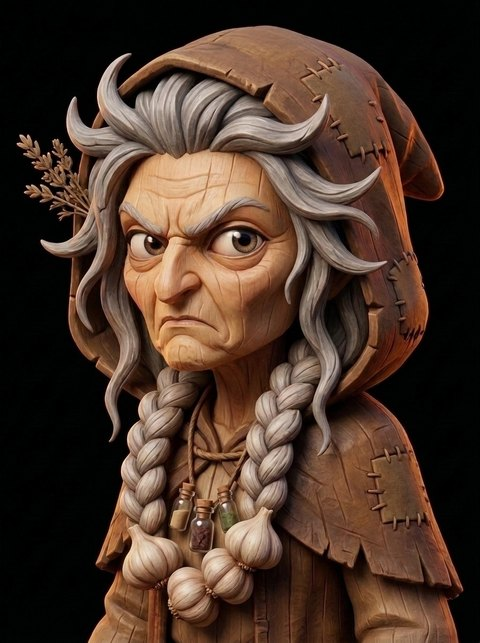
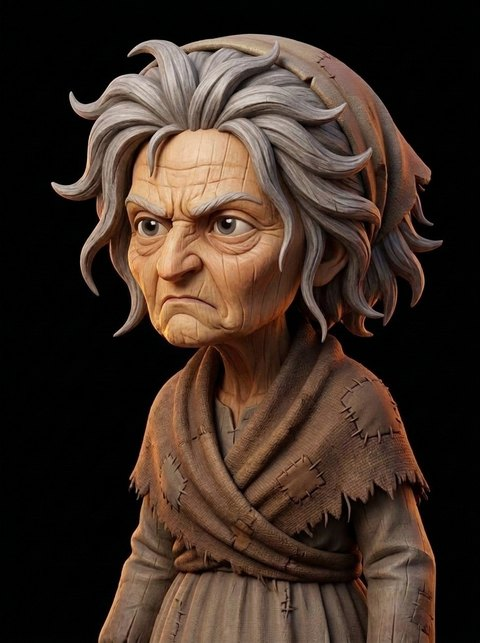
Keep doorways clear, the graveyard off the banks; art fixes
The ground in front of each home's door stays level with its floor for
5 m and then rises only gently; where a road passes higher in front,
the home's level patch is raised to meet it instead of cutting the
road. The graveyard keeps 15 m of bank between itself and the river.

The doorstep dialog is narrower so the two portraits face each other,
with its text capped on large windows. The old woman villager is
repainted without garlic in her three expressions, and the invitation
icon now shows a cosy cottage doorway over grass.

diff --git a/render3d.js b/render3d.js
@@ -490,7 +490,7 @@ function buildWorld() {
   };
   const pads = [...homes.map(({ x, z }) => ({ x, z: z + 1, r: 6.5, b: 6 })), { x: churchAt.x, z: churchAt.z, r: 7, b: 6 }, { x: yard.x, z: yard.z, r: Math.max(yard.w, yard.d) / 2 + 2, b: 9 }];
   pads.forEach((p) => { p.h = base(p.x, p.z); });
-  function heightAt(x, z) {
+  function rawHeight(x, z) {
     const bank = riverDist(x, z);
     if (bank < RH + 0.6) return -0.45 * (1 - sstep(RH - 1.0, RH + 0.6, bank)) + 0.16 * (vnoise(x * 0.8, z * 0.8) - 0.5) * (1 - sstep(RH + 0.2, RH + 0.6, bank));
     let h = base(x, z);
@@ -499,6 +499,35 @@ function buildWorld() {
     if (rw > 0) h += (roadTop(x, z) + crown(x, z) - 0.08 * edge(x, z) * sstep(RH + 0.6, RH + 3, bank) - h) * rw;
     return h;
   }
+
+  // In front of each door the ground keeps level with the home's floor for 5 m, then may rise only gently, so no hill,
+  // embankment, graveyard rise or neighbour's patch climbs against the doorway. The trim fades out at the strip's
+  // sides and far end, and near any other home so it never undercuts one.
+  // Roads are never cut: where one runs in front of a door higher than the home's floor, the home's level patch is
+  // raised to meet it, its edge eased out further.
+  pads.slice(0, homes.length).forEach((p) => {
+    let top = -Infinity;
+    for (let d = 2.5; d <= 11; d += 0.75) for (const dx of [-2.6, 0, 2.6]) {
+      const x = p.x + dx, z = p.z + d;
+      if (roadDist(x, z) < RDH + 1.5) top = Math.max(top, roadTop(x, z) + crown(x, z));
+    }
+    if (top > p.h) { p.b += (top - p.h) * 3; p.h = top + 0.02; }
+  });
+  const doors = homes.map(({ x, z }) => ({ x, z: z + 1 }));
+  doors.forEach((d) => { d.h = rawHeight(d.x, d.z); });
+  function doorCap(x, z, h) {
+    for (const d of doors) {
+      const dz = z - d.z, dx = Math.abs(x - d.x);
+      if (dz < 1.5 || dz > 11 || dx > 4.6) continue;
+      const allow = d.h + 0.3 * Math.max(0, dz - 5);
+      if (h <= allow) continue;
+      let w = (1 - sstep(2.8, 4.6, dx)) * (1 - sstep(8.5, 11, dz)) * sstep(1.5, 2.5, dz) * sstep(RDH + 0.5, RDH + 4, roadDist(x, z));
+      for (const o of doors) if (o !== d) w *= sstep(5.5, 8, Math.hypot(x - o.x, z - o.z));
+      h += (allow - h) * w;
+    }
+    return h;
+  }
+  const heightAt = (x, z) => doorCap(x, z, rawHeight(x, z));
 
   // ---- ground: each bank's strip, built in the river's frame with vertices packed closer near the water ----
   const TILE = 2.6;
@@ -799,7 +828,7 @@ diffuseColor.rgb = mix(diffuseColor.rgb, vec3(dot(diffuseColor.rgb, vec3(0.3, 0.
     }
     return p;
   }
-  W = { map: mapVersion, root, houseViews, groundY, onDeck, churchUnit, cryptUnit, stoneObjs, churchUni, crossHalo, crossLamp, cryptModel, grille, cryptLamp, cryptKind: '', churchDecay: 0 };
+  W = { map: mapVersion, root, houseViews, groundY, heightAt, base, onDeck, churchUnit, cryptUnit, stoneObjs, churchUni, crossHalo, crossLamp, cryptModel, grille, cryptLamp, cryptKind: '', churchDecay: 0 };
   snapCamera();
 }
 

diff --git a/assets/ui/ui.css b/assets/ui/ui.css
@@ -158,7 +158,7 @@
 
 /* ---------- the doorstep talk ---------- */
 
-#talk { position: fixed; z-index: 6; left: 50%; top: 50%; transform: translate(-50%, -50%); width: min(1240px, calc(100vw - 32px)); display: grid; grid-template-columns: minmax(110px, 270px) 1fr minmax(110px, 270px); gap: 24px; padding: 24px; transition: border-color .3s, background-color .3s; }
+#talk { position: fixed; z-index: 6; left: 50%; top: 50%; transform: translate(-50%, -50%); width: min(920px, 72vw, calc(100vw - 32px)); display: grid; grid-template-columns: minmax(100px, 230px) 1fr minmax(100px, 230px); gap: 14px; padding: 24px; transition: border-color .3s, background-color .3s; }
 #talk::after { content: ''; position: absolute; inset: 0; z-index: -1; border-radius: inherit; box-shadow: 0 0 0 200vmax rgba(6, 4, 14, .42); pointer-events: none; }
 #talk.feeding { border-color: #c4202e; background-color: #3a0a10; }
 /* Portraits stand in carved arched niches: thick brass moulding over a dark recess, on a sill. */
@@ -172,15 +172,15 @@
 @keyframes pop { from { opacity: .3; transform: scale(1.04); } to { opacity: 1; transform: none; } }
 @media (prefers-reduced-motion: reduce) { .niche img.pop { animation: none; } }
 #talk .talk-body { display: flex; flex-direction: column; justify-content: center; gap: 12px; padding: 12px 10px; min-width: 0; background: none; box-shadow: none; }
-.talk-body h2 { margin: 0; font: 700 clamp(24px, 2.45vw, 42px)/1.15 var(--serif); color: var(--cream); }
+.talk-body h2 { margin: 0; font: 700 clamp(24px, 2.45vw, 34px)/1.15 var(--serif); color: var(--cream); }
 .talk-body .divider { width: 100%; margin: 2px 0 4px; }
-.talk-body p { margin: 0; font-size: clamp(16px, 1.65vw, 28px); line-height: 1.35; }
+.talk-body p { margin: 0; font-size: clamp(16px, 1.65vw, 22px); line-height: 1.35; }
 .talk-body .knock { color: var(--muted); font-style: italic; }
 .talk-body .question { font-weight: 700; color: var(--cream); }
 .talk-body .answer { color: #ffc2c8; }
 .outcome-band { display: flex; align-items: center; gap: 16px; margin-top: 8px; padding-top: 14px; border-top: 1px solid var(--brass-dim); }
 .outcome-band img { width: 64px; height: 64px; flex: none; }
-.outcome-band p { font-weight: 700; font-size: clamp(19px, 2vw, 34px) !important; }
+.outcome-band p { font-weight: 700; font-size: clamp(19px, 2vw, 26px) !important; }
 .outcome-band.won p { color: #9fe0a8; }
 .outcome-band.lost p { color: #ff5f6d; }
 .talk-body .feed { display: flex; align-items: center; gap: 14px; font-size: clamp(17px, 1.8vw, 30px); font-weight: 700; }

diff --git a/sim.js b/sim.js
@@ -43,6 +43,7 @@ const T = 32, COLS = 52, ROWS = 28, HUD = 48, FOOT = 48;   // the map is wider a
 const WORLD_W = COLS * T, WORLD_H = ROWS * T;
 const HOUSE_W = 3 * T, HOUSE_H = 2 * T, HOMES = 16;
 const RIVER_HALF = 74, ROAD_HALF = 36, BRIDGE_HALF = 40;   // half-widths in pixels
+const YARD_RIVER_GAP = 160;   // pixels (15 m) of bank kept between the river and the graveyard
 const BUILDING = 1, WATER = 2, TOMB = 3;   // tile blockers. Only buildings stop the player by tile: water and tombs use exact shapes
 
 // Each entry is [resident's call, six plausible replies]. A knock uses one call and one of its replies at
@@ -186,6 +187,8 @@ function layout(rnd) {
   const yardClear = (tx, ty) => {
     for (let y = ty - 3; y <= ty + 6; y++) for (let x = tx - 4; x <= tx + 6; x++) {
       if (x < 0 || y < 0 || x >= COLS || y >= ROWS || keepOut[y * COLS + x]) return false;
+      // The banks slope down to the water over about 18 m (YARD_RIVER_GAP); the graveyard's level bed stays above that.
+      if (off(river, (x + 0.5) * T, (y + 0.5) * T) < RIVER_HALF + YARD_RIVER_GAP) return false;
     }
     return true;
   };
